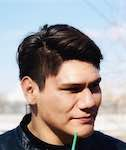
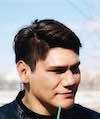
121

diff --git a/css/stylesheet.css b/css/stylesheet.css
@@ -25,8 +25,7 @@ main h2{
 .profile{
     float: right;
     box-shadow: 0 0 17px black;
-    height: 120px;
-    width: 100px;
+    
 }
 footer a, footer a:link, footer a:visited, footer a:hover, footer a:active, footer a:focus {
     color: white;
